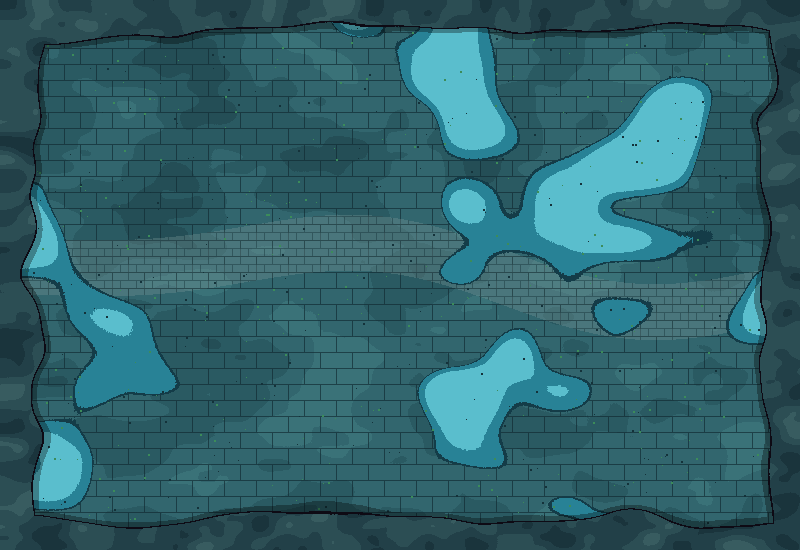
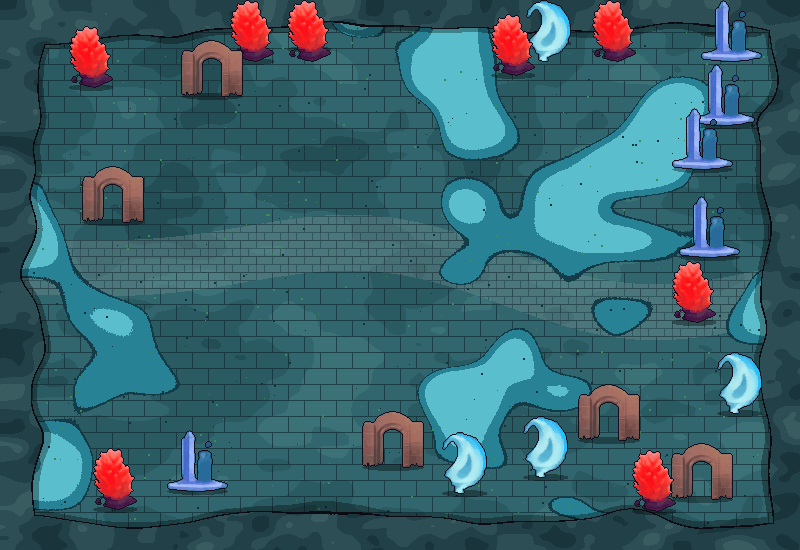
Mapas com objetos de cenário e ajustes da cena para pixel art
Claude-Session: https://claude.ai/code/session_01R9bEA8madkQfyix1h3Gv4o

diff --git a/shared/assets.ts b/shared/assets.ts
@@ -72,7 +72,7 @@ add('Mapas (montados por tools/ai-assets/maps.py)', 'map', 'mapas', [
   ['arena', 'Mapa da arena', 'training arena: clean dark grey floor, a large painted circle and center line, violet edge lights, low walls around'],
 ])
 add('Mapas: objetos de cenário', 'props', 'mapas', [
-  ['cidade-objetos', 'Objetos da cidade', 'four separate props, one per cell: a street lamp with violet light, a stone bench, a notice board, a potted dark shrub'],
+  ['cidade-objetos', 'Objetos da cidade', 'four separate props, one per cell: an iron street lamp post with a glowing violet lantern, a wooden park bench, a stone water fountain, a wooden market stall with a striped awning'],
   ['minas-ocas-objetos', 'Objetos das Minas Ocas', 'four separate props, one per cell: a broken mine cart, a wooden support beam, a pile of ore rocks, a hanging oil lantern on a post'],
   ['bosque-cinzento-objetos', 'Objetos do Bosque Cinzento', 'four separate props, one per cell: a dead grey tree, a mossy boulder, a thorn bush, a fallen log'],
   ['cidadela-afundada-objetos', 'Objetos da Cidadela Afundada', 'four separate props, one per cell: a broken stone pillar, a barnacle-covered statue, a rusted iron gate fragment, a coral cluster'],

diff --git a/tools/ai-assets/fetch.py b/tools/ai-assets/fetch.py
@@ -25,7 +25,7 @@ def spec(a):
     if i.startswith("monstros/"):
         big = a.get("optional")
         return f"{a['subject']}, chibi monster, cute but menacing, full body, single creature, centered, {PIXEL}", 84 if big else 52, 88 if big else 56
-    if f == "icon": return f"{a['subject']}, one single isolated object only, game inventory icon, centered, no people, no character, no hands, {PIXEL}", 36, 40
+    if f == "icon": return f"{a['subject']}, one single isolated object only, item icon, 16-bit pixel art, bold dark outline, vivid saturated colors, centered, no people, no person, no character, no hands, no body, plain solid white background, no text", 36, 40
     if i == "objetos/fenda": return f"{a['subject']}, one single isolated object, centered, {PIXEL.replace('white', 'black')}", 76, 80
     if i.startswith("objetos/"): return f"{a['subject']}, one single isolated object, centered, {PIXEL}", 28, 32
     return None

diff --git a/tools/ai-assets/maps.py b/tools/ai-assets/maps.py
@@ -215,7 +215,7 @@ def cidade():
     inside = wall(img, rng, 26, [(22, 20, 36), (30, 28, 48), (40, 36, 60), (52, 46, 74)])
     d = edge_dist(w, h)
     paint(img, (np.abs(d - 33) < 1.5) & ((x // 10 + y // 10) % 3 == 0), (255, 200, 110))  # janelas iluminadas na borda
-    place_props(img, "cidade", rng, border_free(w, h, inside, 28, 110) & ~road, 20, 120)
+    place_props(img, "cidade", rng, border_free(w, h, inside, 28, 90) & ~road, 14, 150)
     save("cidade", img)
 
 if __name__ == "__main__":

diff --git a/docs/prompts-assets/mapas/cidade-objetos.md b/docs/prompts-assets/mapas/cidade-objetos.md
@@ -10,7 +10,7 @@
 ```text
 16-bit JRPG pixel art, crisp hard-edged pixels, bold dark outline, flat cel shading, limited vivid palette. Characters and monsters in chibi proportions (big head, small body, about two heads tall). Dark modern-fantasy theme with violet, cyan or amber glowing accents. No text, no letters, no numbers, no watermark, no signature, no UI frame.
 
-Subject: four separate props, one per cell: a street lamp with violet light, a stone bench, a notice board, a potted dark shrub.
+Subject: four separate props, one per cell: an iron street lamp post with a glowing violet lantern, a wooden park bench, a stone water fountain, a wooden market stall with a striped awning.
 
 Output: one sheet, square 1024x1024 canvas, divided into an exact 2 columns x 2 rows grid of equal 512x512 cells, no grid lines. Exactly one prop per cell, centered, top-down 3/4 view, with at least 32 pixels of empty margin on every side of its cell. Fully transparent background (PNG with alpha). No ground shadow, no floor, no backdrop.
 ```
